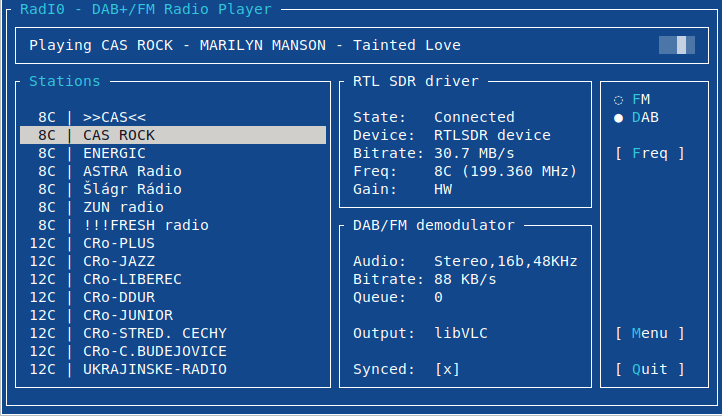
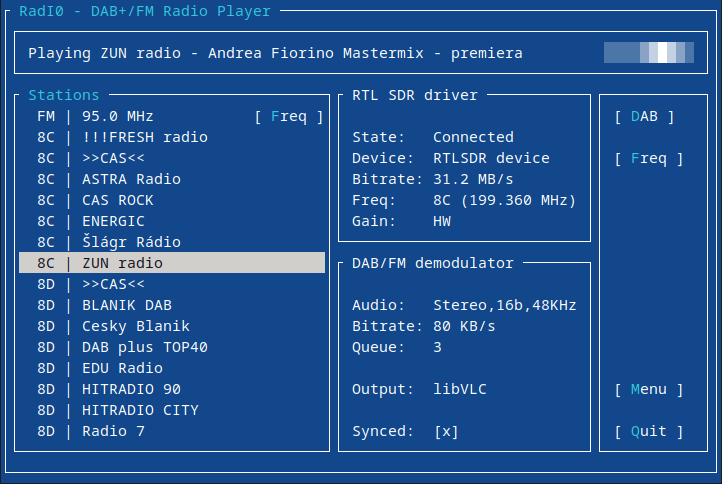
updating readme and screenshot

diff --git a/README.md b/README.md
@@ -21,7 +21,7 @@ RadI0 is a cross-platform software-defined radio receiver for DAB+ and FM radio 
 
 | Linux (arm) | Linux (arm64, Raspberry Pi) | Linux (x64) | Windows (arm64) | Windows (x64) | Windows (x86) |
 | --- | --- | --- | --- | --- | --- |
-| [![Linux ARM](https://img.shields.io/badge/Linux-arm-red?logo=linux&logoColor=white)](https://github.com/petrj/RadI0/releases/latest/download/RadI0.v0.0.9.0.linux-arm.tar.xz) | [![Linux ARM64](https://img.shields.io/badge/Linux-arm64-brightgreen?logo=linux&logoColor=white)](https://github.com/petrj/RadI0/releases/latest/download/RadI0.v0.0.9.0.linux-arm64.tar.xz) [![RaspberryPi](https://img.shields.io/badge/RaspberryPi-compatible-red?logo=raspberrypi&logoColor=white)](https://github.com/petrj/RadI0/releases/latest/download/RadI0.v0.0.9.0.linux-arm.tar.xz) | [![Linux x64](https://img.shields.io/badge/Linux-x64-brightgreen?logo=linux&logoColor=white)](https://github.com/petrj/RadI0/releases/latest/download/RadI0.v0.0.9.0.linux-x64.tar.xz) | [![Windows ARM64](https://img.shields.io/badge/Windows-arm64-blue?logo=windows&logoColor=white)](https://github.com/petrj/RadI0/releases/latest/download/RadI0.v0.0.9.0.win-arm64.7z) | [![Windows x64](https://img.shields.io/badge/Windows-x64-blue?logo=windows&logoColor=white)](https://github.com/petrj/RadI0/releases/latest/download/RadI0.v0.0.9.0.win-x64.7z) | [![Windows x86](https://img.shields.io/badge/Windows-x86-blue?logo=windows&logoColor=white)](https://github.com/petrj/RadI0/releases/latest/download/RadI0.v0.0.9.0.win-x86.7z) |
+| [![Linux ARM](https://img.shields.io/badge/Linux-arm-red?logo=linux&logoColor=white)](https://github.com/petrj/RadI0/releases/latest/download/RadI0.v0.1.0.0.linux-arm.tar.xz) | [![Linux ARM64](https://img.shields.io/badge/Linux-arm64-brightgreen?logo=linux&logoColor=white)](https://github.com/petrj/RadI0/releases/latest/download/RadI0.v0.1.0.0.linux-arm64.tar.xz) [![RaspberryPi](https://img.shields.io/badge/RaspberryPi-compatible-red?logo=raspberrypi&logoColor=white)](https://github.com/petrj/RadI0/releases/latest/download/RadI0.v0.1.0.0.linux-arm.tar.xz) | [![Linux x64](https://img.shields.io/badge/Linux-x64-brightgreen?logo=linux&logoColor=white)](https://github.com/petrj/RadI0/releases/latest/download/RadI0.v0.1.0.0.linux-x64.tar.xz) | [![Windows ARM64](https://img.shields.io/badge/Windows-arm64-blue?logo=windows&logoColor=white)](https://github.com/petrj/RadI0/releases/latest/download/RadI0.v0.1.0.0.win-arm64.7z) | [![Windows x64](https://img.shields.io/badge/Windows-x64-blue?logo=windows&logoColor=white)](https://github.com/petrj/RadI0/releases/latest/download/RadI0.v0.1.0.0.win-x64.7z) | [![Windows x86](https://img.shields.io/badge/Windows-x86-blue?logo=windows&logoColor=white)](https://github.com/petrj/RadI0/releases/latest/download/RadI0.v0.1.0.0.win-x86.7z) |
 
 ## Features
 